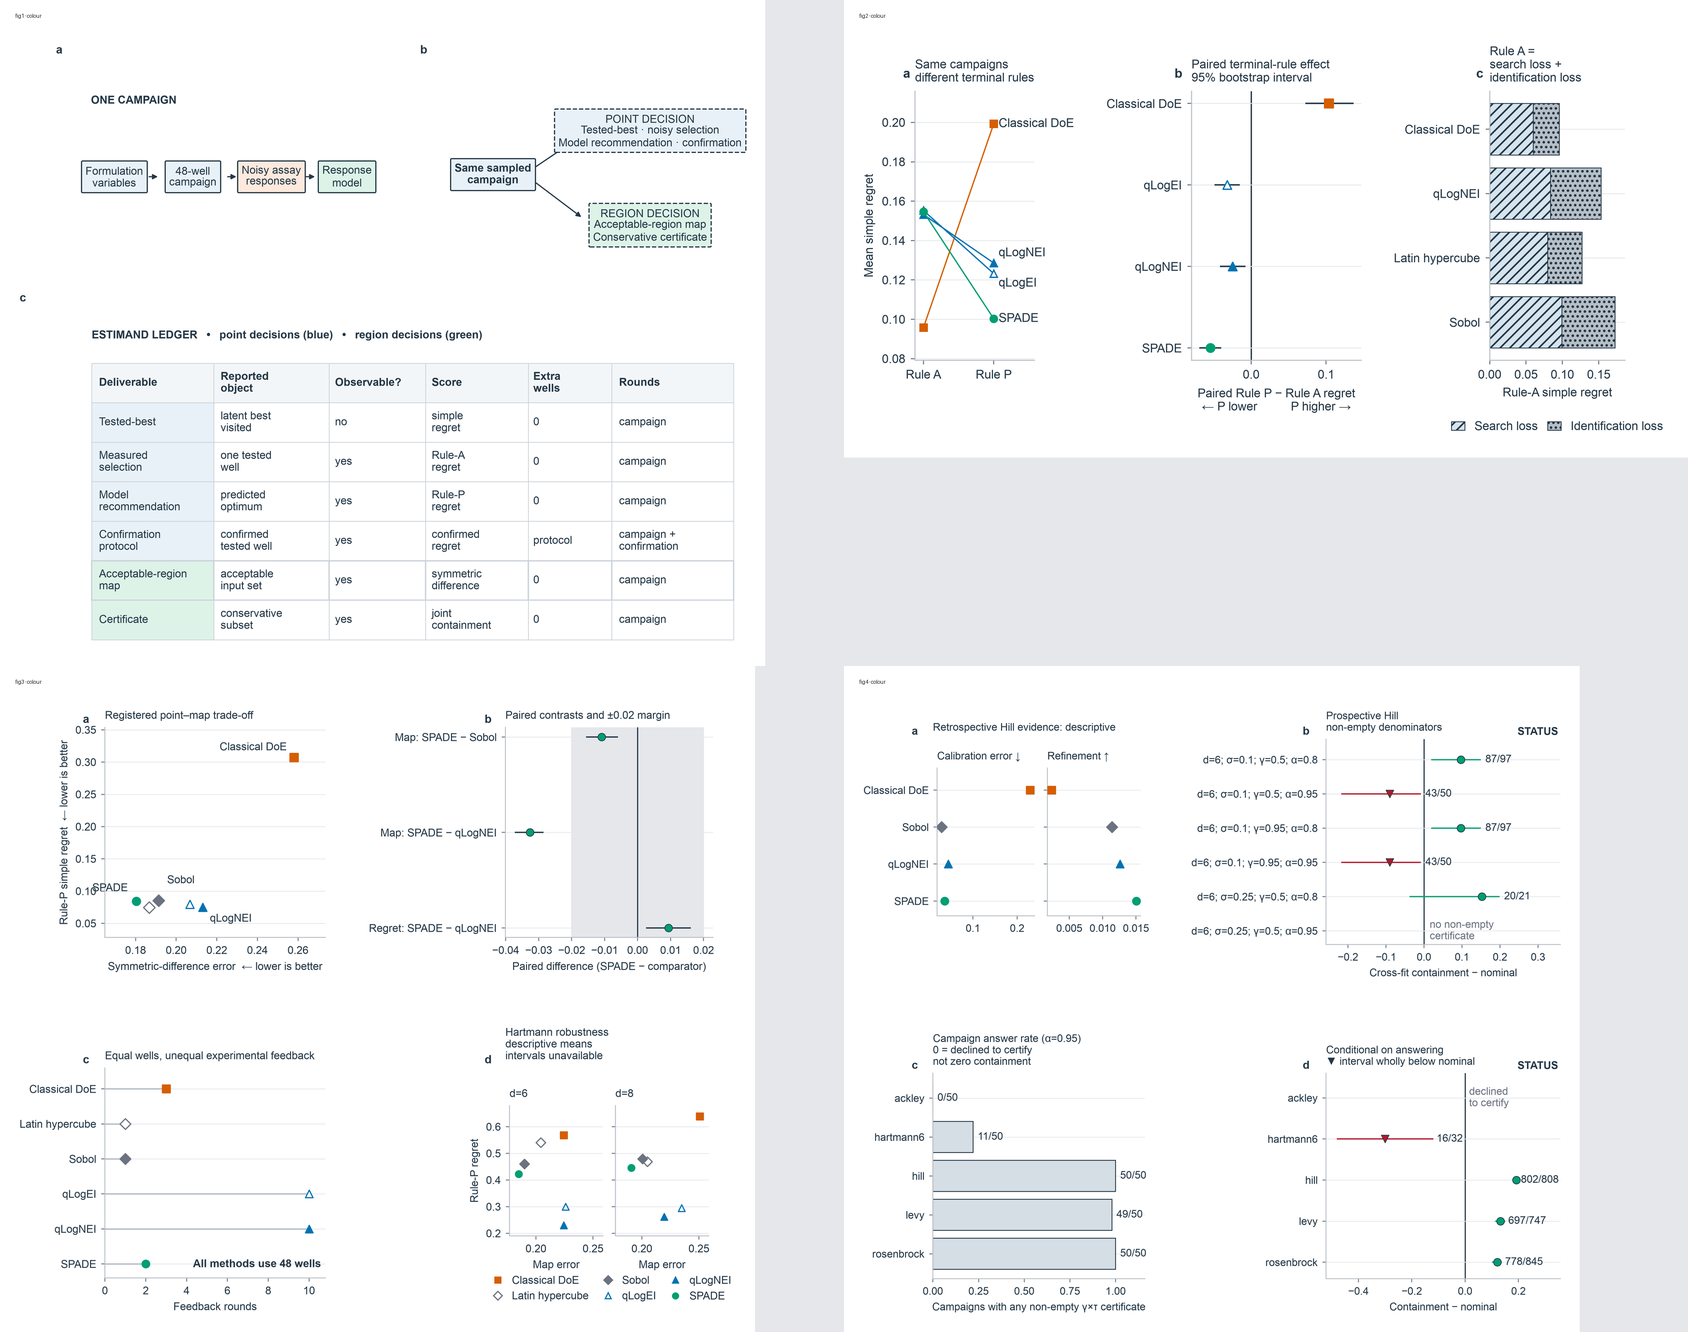
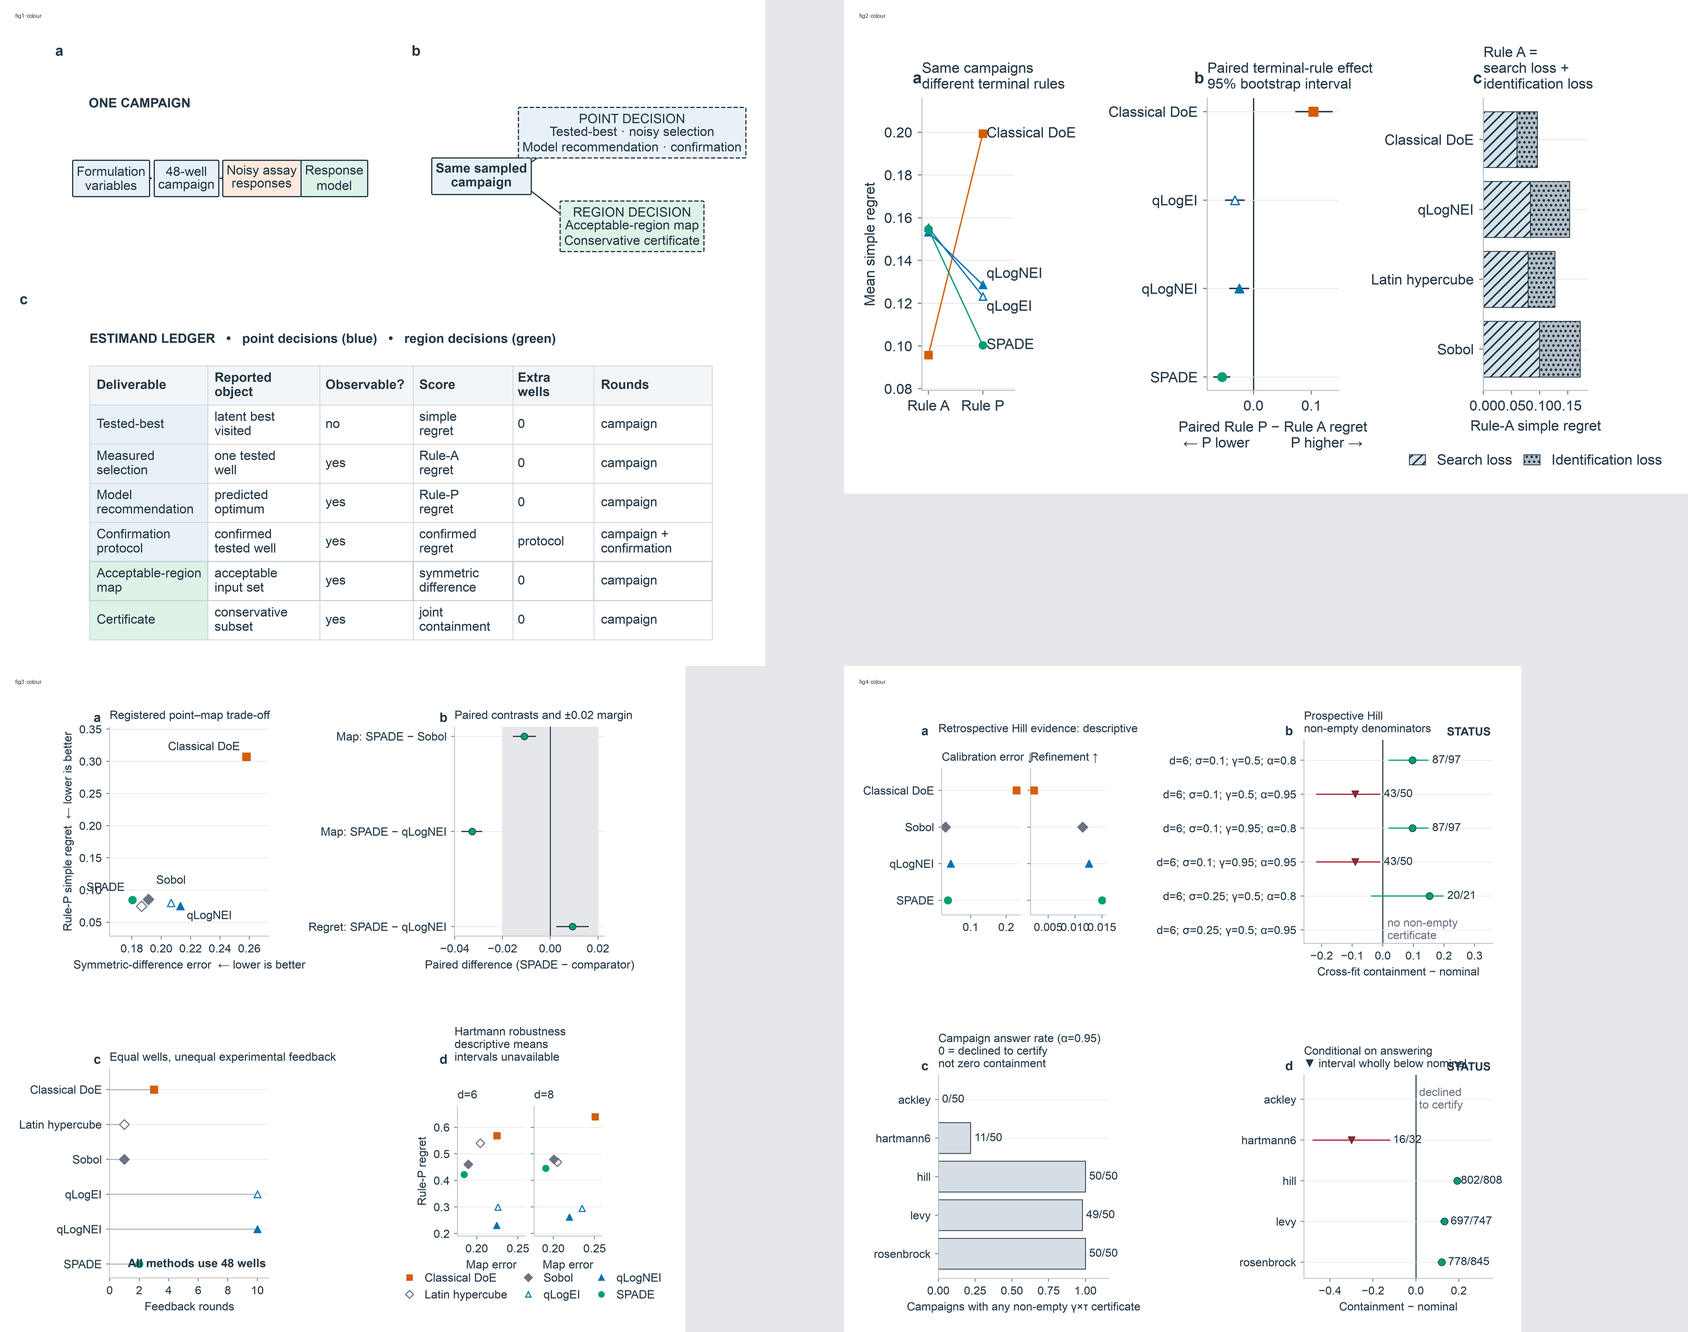
feat: redesign SPADE figures for publication and presentation

diff --git a/scripts/make_ec_gate_figure.py b/scripts/make_ec_gate_figure.py
@@ -1,0 +1,125 @@
+"""Build a publication-ready summary of the current prospective EC gate.
+
+The source JSON is never modified.  The script records the exact aggregation
+and exports fixed-size RGB/PDF/SVG/TIFF files plus accessible text and a
+machine-readable provenance sidecar.
+"""
+from __future__ import annotations
+
+import argparse
+import json
+from pathlib import Path
+
+import matplotlib.pyplot as plt
+from PIL import Image
+
+
+FAMILIES = ("ec_broad", "ec_multimodal", "ec_narrow")
+LABELS = ("Broad", "Multimodal", "Narrow")
+
+
+def wilson_lower(successes: int, trials: int, z: float = 1.959963984540054) -> float:
+    if trials == 0:
+        return 0.0
+    p = successes / trials
+    den = 1 + z * z / trials
+    centre = p + z * z / (2 * trials)
+    half = z * (p * (1 - p) / trials + z * z / (4 * trials * trials)) ** 0.5
+    return (centre - half) / den
+
+
+def main() -> int:
+    parser = argparse.ArgumentParser()
+    parser.add_argument("--input", type=Path, default=Path("results/ec-evaluation-current.json"))
+    parser.add_argument("--output", type=Path, default=Path("results/paper-figures/portable/fig5-ec-gate.png"))
+    parser.add_argument("--width-mm", type=float, default=178.0)
+    parser.add_argument("--height-mm", type=float, default=82.0)
+    args = parser.parse_args()
+    rows = json.loads(args.input.read_text(encoding="utf-8"))["rows"]
+    spade = [r for r in rows if r["arm"] == "spade"]
+    answer = [sum(r["answer_rate"] for r in spade if r["family"] == f) / 32 for f in FAMILIES]
+    lower = []
+    for family in FAMILIES:
+        family_rows = [r for r in spade if r["family"] == family]
+        answered = [r for r in family_rows if r["answer_rate"] > 0]
+        successes = sum(bool(r.get("contained", False)) for r in answered)
+        lower.append(wilson_lower(successes, len(answered)))
+
+    # 178 mm is the portable/full-width preset used by the manuscript.  Keep
+    # the physical geometry fixed across raster and vector exports.
+    fig, axes = plt.subplots(1, 2, figsize=(args.width_mm / 25.4, args.height_mm / 25.4),
+                             sharex=True, layout="constrained")
+    colours = ("#009E73", "#0072B2", "#D55E00")  # Okabe–Ito subset
+    hatches = ("///", "\\\\\\\\", "...")
+    x = range(len(FAMILIES))
+    for ax, values, threshold, ylabel, title in (
+        (axes[0], answer, 0.50, "Answer rate", "Answers returned"),
+        (axes[1], lower, 0.90, "One-sided 95% lower bound", "Containment evidence"),
+    ):
+        ax.bar(x, values, color=colours, hatch=hatches, width=0.62,
+               edgecolor="#243746", linewidth=0.55)
+        ax.axhline(threshold, color="#444444", linestyle="--", linewidth=1.0, label=f"gate = {threshold:.2f}")
+        ax.set_ylim(0, 1.02)
+        ax.set_xticks(list(x), LABELS)
+        ax.set_ylabel(ylabel)
+        ax.set_title(title)
+        ax.spines[["top", "right"]].set_visible(False)
+        ax.grid(axis="y", color="#E5E7EB", linewidth=0.5)
+        ax.set_axisbelow(True)
+        for i, value in enumerate(values):
+            ax.text(i, min(value + 0.035, 0.97), f"{value:.3f}", ha="center", va="bottom", fontsize=8)
+    axes[0].text(0.02, -0.25, "SPADE · n=32 campaigns/family · 48 wells/campaign",
+                 transform=axes[0].transAxes, fontsize=8)
+    args.output.parent.mkdir(parents=True, exist_ok=True)
+    fig.savefig(args.output, dpi=450, facecolor="white")
+    # Agg may emit RGBA even with an opaque face; publication raster is RGB.
+    with Image.open(args.output) as image:
+        if image.mode != "RGB":
+            image.convert("RGB").save(args.output, dpi=(450, 450), optimize=True)
+    fig.savefig(args.output.with_suffix(".pdf"), facecolor="white")
+    fig.savefig(args.output.with_suffix(".svg"), facecolor="white")
+    # PLOS accepts RGB 8-bit TIFF at 300–600 dpi; preserve exact dimensions.
+    tiff_path = args.output.with_suffix(".tif")
+    fig.savefig(tiff_path, dpi=600, facecolor="white")
+    with Image.open(tiff_path) as image:
+        image.convert("RGB").save(tiff_path, compression="tiff_lzw", dpi=(600, 600))
+    stem = args.output.with_suffix("")
+    stem.with_suffix(".alt.txt").write_text(
+        "Two-panel bar chart of SPADE's prospective EC gate. Answer rates are 0.531 for broad, "
+        "0.375 for multimodal, and 0 for narrow; containment lower bounds are 0.816, 0.758, and 0. "
+        "Dashed lines show the 0.50 answer and 0.90 containment gates.\n",
+        encoding="utf-8",
+    )
+    stem.with_suffix(".caption.txt").write_text(
+        "Current prospective EC gate outcomes. Answer rates and one-sided 95% containment lower bounds "
+        "are shown for 32 campaigns per family at 48 wells per campaign.\n",
+        encoding="utf-8",
+    )
+    stem.with_suffix(".description.txt").write_text(
+        "The left panel shows answer rate against the 0.50 gate; only broad reaches it. The right panel "
+        "shows family-level containment lower bounds against the 0.90 gate; no family reaches it.\n",
+        encoding="utf-8",
+    )
+    stem.with_suffix(".data.json").write_text(
+        json.dumps({
+            "source": str(args.input),
+            "source_rows": len(rows),
+            "filter": "arm == 'spade'",
+            "families": list(FAMILIES),
+            "campaigns_per_family": 32,
+            "wells_per_campaign": 48,
+            "answer_rate": answer,
+            "containment_lower_bound": lower,
+            "containment_interval": "Wilson one-sided 95% lower bound over answered campaigns",
+            "answer_gate": 0.50,
+            "containment_gate": 0.90,
+            "missing_policy": "zero-answer campaigns remain explicit and are not counted as containment successes",
+        }, indent=2, sort_keys=True) + "\n",
+        encoding="utf-8",
+    )
+    plt.close(fig)
+    return 0
+
+
+if __name__ == "__main__":
+    raise SystemExit(main())

diff --git a/scripts/make_paper_figures.py b/scripts/make_paper_figures.py
@@ -10,7 +10,7 @@ def main() -> int:
     parser = argparse.ArgumentParser(description="Build publication-ready main figures from frozen artifacts.")
     parser.add_argument("--results-dir", type=Path, default=Path("results"))
     parser.add_argument("--output-dir", type=Path, default=Path("results/paper-figures"))
-    parser.add_argument("--preset", choices=("portable", "rsc", "nature", "plos"), default="portable")
+    parser.add_argument("--preset", choices=("portable", "rsc", "nature", "plos", "presentation"), default="portable")
     args = parser.parse_args()
     manifest = build_all(args.results_dir, args.output_dir, args.preset)
     print(f"built {len(manifest['figures'])} figures for {args.preset} at {args.output_dir}")

diff --git a/src/boec/paper_figures/style.py b/src/boec/paper_figures/style.py
@@ -41,6 +41,9 @@ PRESETS = {
     "rsc": VenuePreset("rsc", 171.0, 7.5, 8.0),
     "nature": VenuePreset("nature", 183.0, 7.0, 8.0),
     "plos": VenuePreset("plos", 178.0, 9.0, 10.0),
+    # Presentation export: same evidence and encodings, with enough physical
+    # area for projected/slideshow viewing. Submission files remain `plos`.
+    "presentation": VenuePreset("presentation", 254.0, 11.0, 13.0),
 }
 
 PresetArg: TypeAlias = VenuePreset | str | None

diff --git a/docs/RESEARCH-SUMMARY.md b/docs/RESEARCH-SUMMARY.md
@@ -25,6 +25,10 @@
 
 **What this paper is.** A controlled demonstration that, under identical budgets and identical latent landscapes, changing only the **terminal decision rule** can reverse the apparent winner; and a factorial split of sampling design, surrogate class, recommendation rule, and well-versus-round cost. Most of the large unconstrained “BO win” is a naïve extrapolative readout of a saddle-shaped quadratic, not a fair classical-RSM recommendation. The measured-value-argmax DoE lead at the primary cell is mostly identification, survives noisy expected improvement, and **vanishes under a three-well confirmation protocol**.
 
+**Current EC-protocol status (1 September 2026).** The frozen six-factor, three-CQA benchmark has been rerun under the current checkout as a complete 384-row artifact (three families × 32 evaluation seeds × four arms), with a fail-closed analyzer verdict of `FAIL_CONTAINMENT`. The EC implementation suite passes 16 tests, and the publication validator passes all 9 guards. SPADE answers 17/32 broad campaigns (53.1%), 12/32 multimodal campaigns (37.5%), and 0/32 narrow campaigns. No false certificates were observed, but the one-sided 95% containment lower bounds are 0.816 and 0.758 for broad and multimodal. The current artifact and gate report are saved in `results/ec-evaluation-current.json` and `results/ec-evaluation-current-gate.json`. These results do not support a general claim that SPADE replaces DOE.
+
+**Prospective extension decision.** The 48-well result remains immutable. A larger-budget study is valid only as a new protocol that registers exact schedules for SPADE, Sobol, qLogNEI, and both DOE comparators at each budget (for example 96, 192, 384, and 768 wells), with fresh training/holdout seeds and a new protocol digest. The DOE implementation rejects arbitrary budgets because its registered 48-well designs close at 20 + 27 + 1 (screen, response surface, confirmation); scaling SPADE alone would break the matched-budget comparison. Thresholds and the narrow-family landscape must not be changed post hoc.
+
 **Novelty (adversarial).** BO-versus-DoE, “BO optimizes / RSM maps,” matched-budget media comparisons, synthetic optimizer benchmarks, and “best observation ≠ model recommendation” as a concept are **already in the literature**. What is potentially new is the same-campaign winner reversal plus the design × surrogate × locator decomposition (Q34/Q45/Q35), the identification-versus-search split, and the demonstration that a three-well confirmation protocol erases the primary measured-value-argmax ranking.
 
 | Claim | Assessment |
@@ -55,7 +59,7 @@
 
 **Conclusions.** A matched evaluation count does not define a unique BO-versus-RSM comparison. Rankings changed when the terminal decision changed, including when a laboratory-plausible confirmation protocol replaced a single noisy readout. Most of the unconstrained reversal arose from extrapolative optimization of saddle-shaped quadratic fits and largely disappeared under in-region constraints. Well count and plate-round count are different costs; under measured-value argmax there is no well-count saving versus walking RSM. Comparisons should prespecify the terminal decision, treatment of measurement noise, permitted extrapolation, confirmation protocol, and unit of experimental cost — and, where the deliverable is an operating window rather than a setpoint, the scored object itself, which reorders the arms in every cell measured. The study is not a wet-lab validation.
 
-**Revision status.** Search versus identification, qLogNEI co-primary, sequential RSM, multi-draw one-shot GP, Hartmann without forced 6→4, and selection-rule sensitivity are closed (Q54–Q59). The design-space programme (K6, P6–P8, Version C), all seven conditions of `spade-final-2026-08-23`, and the registered KF-3 mechanism follow-up are complete. The `doe_unscreened` comparator is implemented and has 100 campaigns in every six-factor condition; it is structurally unavailable at eight factors within 48 wells. Clean regeneration corrected stale pre-`dd75c91` feasibility flags in the stored checkpoints: the final prospective ledger now has five passes (KF-1, KF-6–KF-9) and five failures (KF-2–KF-5, KF-10). Both proposed repairs to second-plate targeting fail their registered bar, so the combined repair is moot. SPADE's certificate is measured on five families: no Hill cell is below nominal at 4,096 draws, it fails at γ = 0.99 on Levy and Rosenbrock, and it usually declines on Ackley and Hartmann6. The seven raw prospective artifacts and per-condition aliases are tracked, reproduce the 99,601-row study from a clean checkout, pass all nine release checks, and generate all eight publication figures. The retained threshold repair is a controlled-prevalence quantile; pooled-replicate noise estimation and strength-2 OA-LHS were tested at their registered gates and rejected. A stricter 48-evaluation joint SPADE protocol is implemented and frozen, but its development selection and unopened lockbox outcomes have not been run. Remaining before submission: execute that prospective protocol if it is included in the paper, re-read citations from primary PDFs, write the manuscript, and retain the existing scope gaps—no d = 8 cost curves, no in-region long-run RSM recommendation, P7 Murphy is Hill d=6 σ=0.25 only, and no wet-lab validation.
+**Revision status.** Search versus identification, qLogNEI co-primary, sequential RSM, multi-draw one-shot GP, Hartmann without forced 6→4, and selection-rule sensitivity are closed (Q54–Q59). The design-space programme (K6, P6–P8, Version C), all seven conditions of `spade-final-2026-08-23`, and the registered KF-3 mechanism follow-up are complete. The `doe_unscreened` comparator is implemented and has 100 campaigns in every six-factor condition; it is structurally unavailable at eight factors within 48 wells. Clean regeneration corrected stale pre-`dd75c91` feasibility flags in the stored checkpoints: the final prospective ledger now has five passes (KF-1, KF-6–KF-9) and five failures (KF-2–KF-5, KF-10). Both proposed repairs to second-plate targeting fail their registered bar, so the combined repair is moot. SPADE's certificate is measured on five families: no Hill cell is below nominal at 4,096 draws, it fails at γ = 0.99 on Levy and Rosenbrock, and it usually declines on Ackley and Hartmann6. The seven raw prospective artifacts and per-condition aliases are tracked, reproduce the 99,601-row study from a clean checkout, pass all nine release checks, and generate all eight publication figures. The retained threshold repair is a controlled-prevalence quantile; pooled-replicate noise estimation and strength-2 OA-LHS were tested at their registered gates and rejected. The stricter 48-evaluation joint SPADE protocol is implemented and frozen; its complete current-commit EC run is negative at the registered gate and is saved with its analyzer report. Remaining before submission: re-read citations from primary PDFs, write the manuscript, and retain the existing scope gaps—no d = 8 cost curves, no in-region long-run RSM recommendation, P7 Murphy is Hill d=6 σ=0.25 only, and no wet-lab validation.
 
 ---
 

diff --git a/docs/superpowers/plans/2026-09-01-publication-presentation-figures.md b/docs/superpowers/plans/2026-09-01-publication-presentation-figures.md
@@ -1,0 +1,68 @@
+# SPADE publication and presentation figures Implementation Plan
+
+> **For agentic workers:** REQUIRED SUB-SKILL: Use superpowers:executing-plans to implement this plan task-by-task.
+
+**Goal:** Redesign all five SPADE figures as a coherent color narrative with PLOS-oriented submission exports and larger presentation exports, without changing evidence.
+
+**Architecture:** Keep the existing evidence/builders and deterministic exporter. Extend the venue preset with a presentation preset, centralize color/typography/layout settings, and make the EC gate figure use the same export contract. Generated artifacts remain derived from frozen results.
+
+**Tech Stack:** Python 3.11, Matplotlib, Pillow, pytest.
+
+## Global Constraints
+
+- Preserve raw evidence, transformations, thresholds, exclusions, and missing/abstention semantics.
+- Use color plus markers, hatching, direct labels, or panel separation.
+- Use constrained layout and fixed physical dimensions; do not use accidental tight bounding-box cropping.
+- Export PDF/SVG plus RGB PNG/TIFF, alt text, captions, long descriptions, data, and provenance.
+- Keep PLOS submission assets at 300–600 dpi and under 10 MB per figure.
+
+### Task 1: Shared venue and style contract
+
+**Files:**
+- Modify: `src/boec/paper_figures/style.py`
+- Modify: `src/boec/paper_figures/paper.mplstyle`
+- Test: `tests/test_paper_figure_layout.py`
+
+- [ ] Add a `presentation` venue preset with a larger canvas and typography while retaining the existing `portable` and `plos` presets.
+- [ ] Add explicit export defaults (`savefig.bbox: None`, opaque white background, Type 42 PDF fonts) to the style file.
+- [ ] Extend layout tests to assert both presets have fixed positive physical dimensions and approved font resolution.
+- [ ] Run `MPLCONFIGDIR=/tmp/mpl-cache PYTHONPATH=src .venv/bin/pytest -q tests/test_paper_figure_layout.py`.
+
+### Task 2: Regenerate all figure builders under the shared contract
+
+**Files:**
+- Modify: `src/boec/paper_figures/figure1.py`
+- Modify: `src/boec/paper_figures/figure2.py`
+- Modify: `src/boec/paper_figures/figure3.py`
+- Modify: `src/boec/paper_figures/figure4.py`
+
+- [ ] Preserve each figure's estimand and uncertainty semantics while applying shared preset sizing and redundant color encodings.
+- [ ] Keep explanatory content in panel annotations/captions, with no unsupported ranking language.
+- [ ] Run the figure tests before exporting.
+
+### Task 3: Make EC gate export part of the complete figure workflow
+
+**Files:**
+- Modify: `scripts/make_ec_gate_figure.py`
+- Modify: `scripts/make_paper_figures.py`
+- Create: `tests/test_ec_gate_figure.py`
+
+- [ ] Expose a callable builder accepting an input path, output directory, and preset dimensions.
+- [ ] Generate manuscript and presentation variants from the identical source JSON and write exact aggregation provenance.
+- [ ] Add tests for source-row count, family metrics, RGB output, and explicit gate annotations.
+
+### Task 4: Build, inspect, and validate deliverables
+
+**Files:**
+- Generated: `results/paper-figures/portable/*`, `results/paper-figures/presentation/*`
+
+- [ ] Regenerate all five figures for both presets.
+- [ ] Generate color, grayscale, and deuteranopia contact sheets.
+- [ ] Inspect rendered figures for clipping, readable labels, and honest failure display.
+- [ ] Run the complete figure/EC test suite and metadata checks.
+- [ ] Rebuild `manuscript/SPADE-PLOS-ONE.docx`.
+
+### Task 5: Review and push safely
+
+- [ ] Review `git diff --check`, `git status`, and the complete diff.
+- [ ] Attempt a focused commit for the redesign; if linked-worktree permissions prevent commit/push, report the exact blocker without rewriting unrelated changes.

diff --git a/docs/superpowers/specs/2026-09-01-publication-presentation-figures-design.md b/docs/superpowers/specs/2026-09-01-publication-presentation-figures-design.md
@@ -1,0 +1,44 @@
+# SPADE publication and presentation figure redesign
+
+## Goal
+
+Create one coherent five-figure narrative for SPADE while producing both
+PLOS-oriented submission assets and larger, more legible color presentation
+assets. The underlying evidence, transformations, thresholds, and negative EC
+gate result remain unchanged.
+
+## Figure roles
+
+1. Workflow and estimand ledger.
+2. Point-versus-region and terminal-rule trade-offs.
+3. Paired contrasts, round cost, and robustness.
+4. Calibration and certificate reliability.
+5. Prospective EC gate answer rate and containment evidence.
+
+## Visual contract
+
+- SPADE uses a consistent green; comparators use blue/orange/gray.
+- Color is redundant with marker, hatch, direct label, or panel separation.
+- Numerical axes use honest baselines and common limits where comparisons are
+  intended; uncertainty and sample sizes are named in captions/sidecars.
+- No data, exclusions, missing values, thresholds, or failures are suppressed.
+- Figures use fixed physical dimensions and constrained layout; no accidental
+  bounding-box cropping.
+- Every figure exports vector PDF/SVG and RGB raster derivatives with alt text,
+  long description, caption, data, and provenance.
+
+## Presets
+
+- `plos`: fixed manuscript geometry and 300–600 dpi RGB TIFF suitable for
+  submission screening.
+- `presentation`: larger canvas and typography for slides/readability, using
+  the same data and encodings.
+
+## Verification
+
+- Regenerate all five figures from frozen evidence.
+- Inspect color, grayscale, and deuteranopia review sheets.
+- Validate raster mode, dimensions, DPI, compression, and file size.
+- Run the complete figure and EC test suite.
+- Confirm the manuscript continues to state the prospective EC gate failure
+  without stronger unsupported claims.
